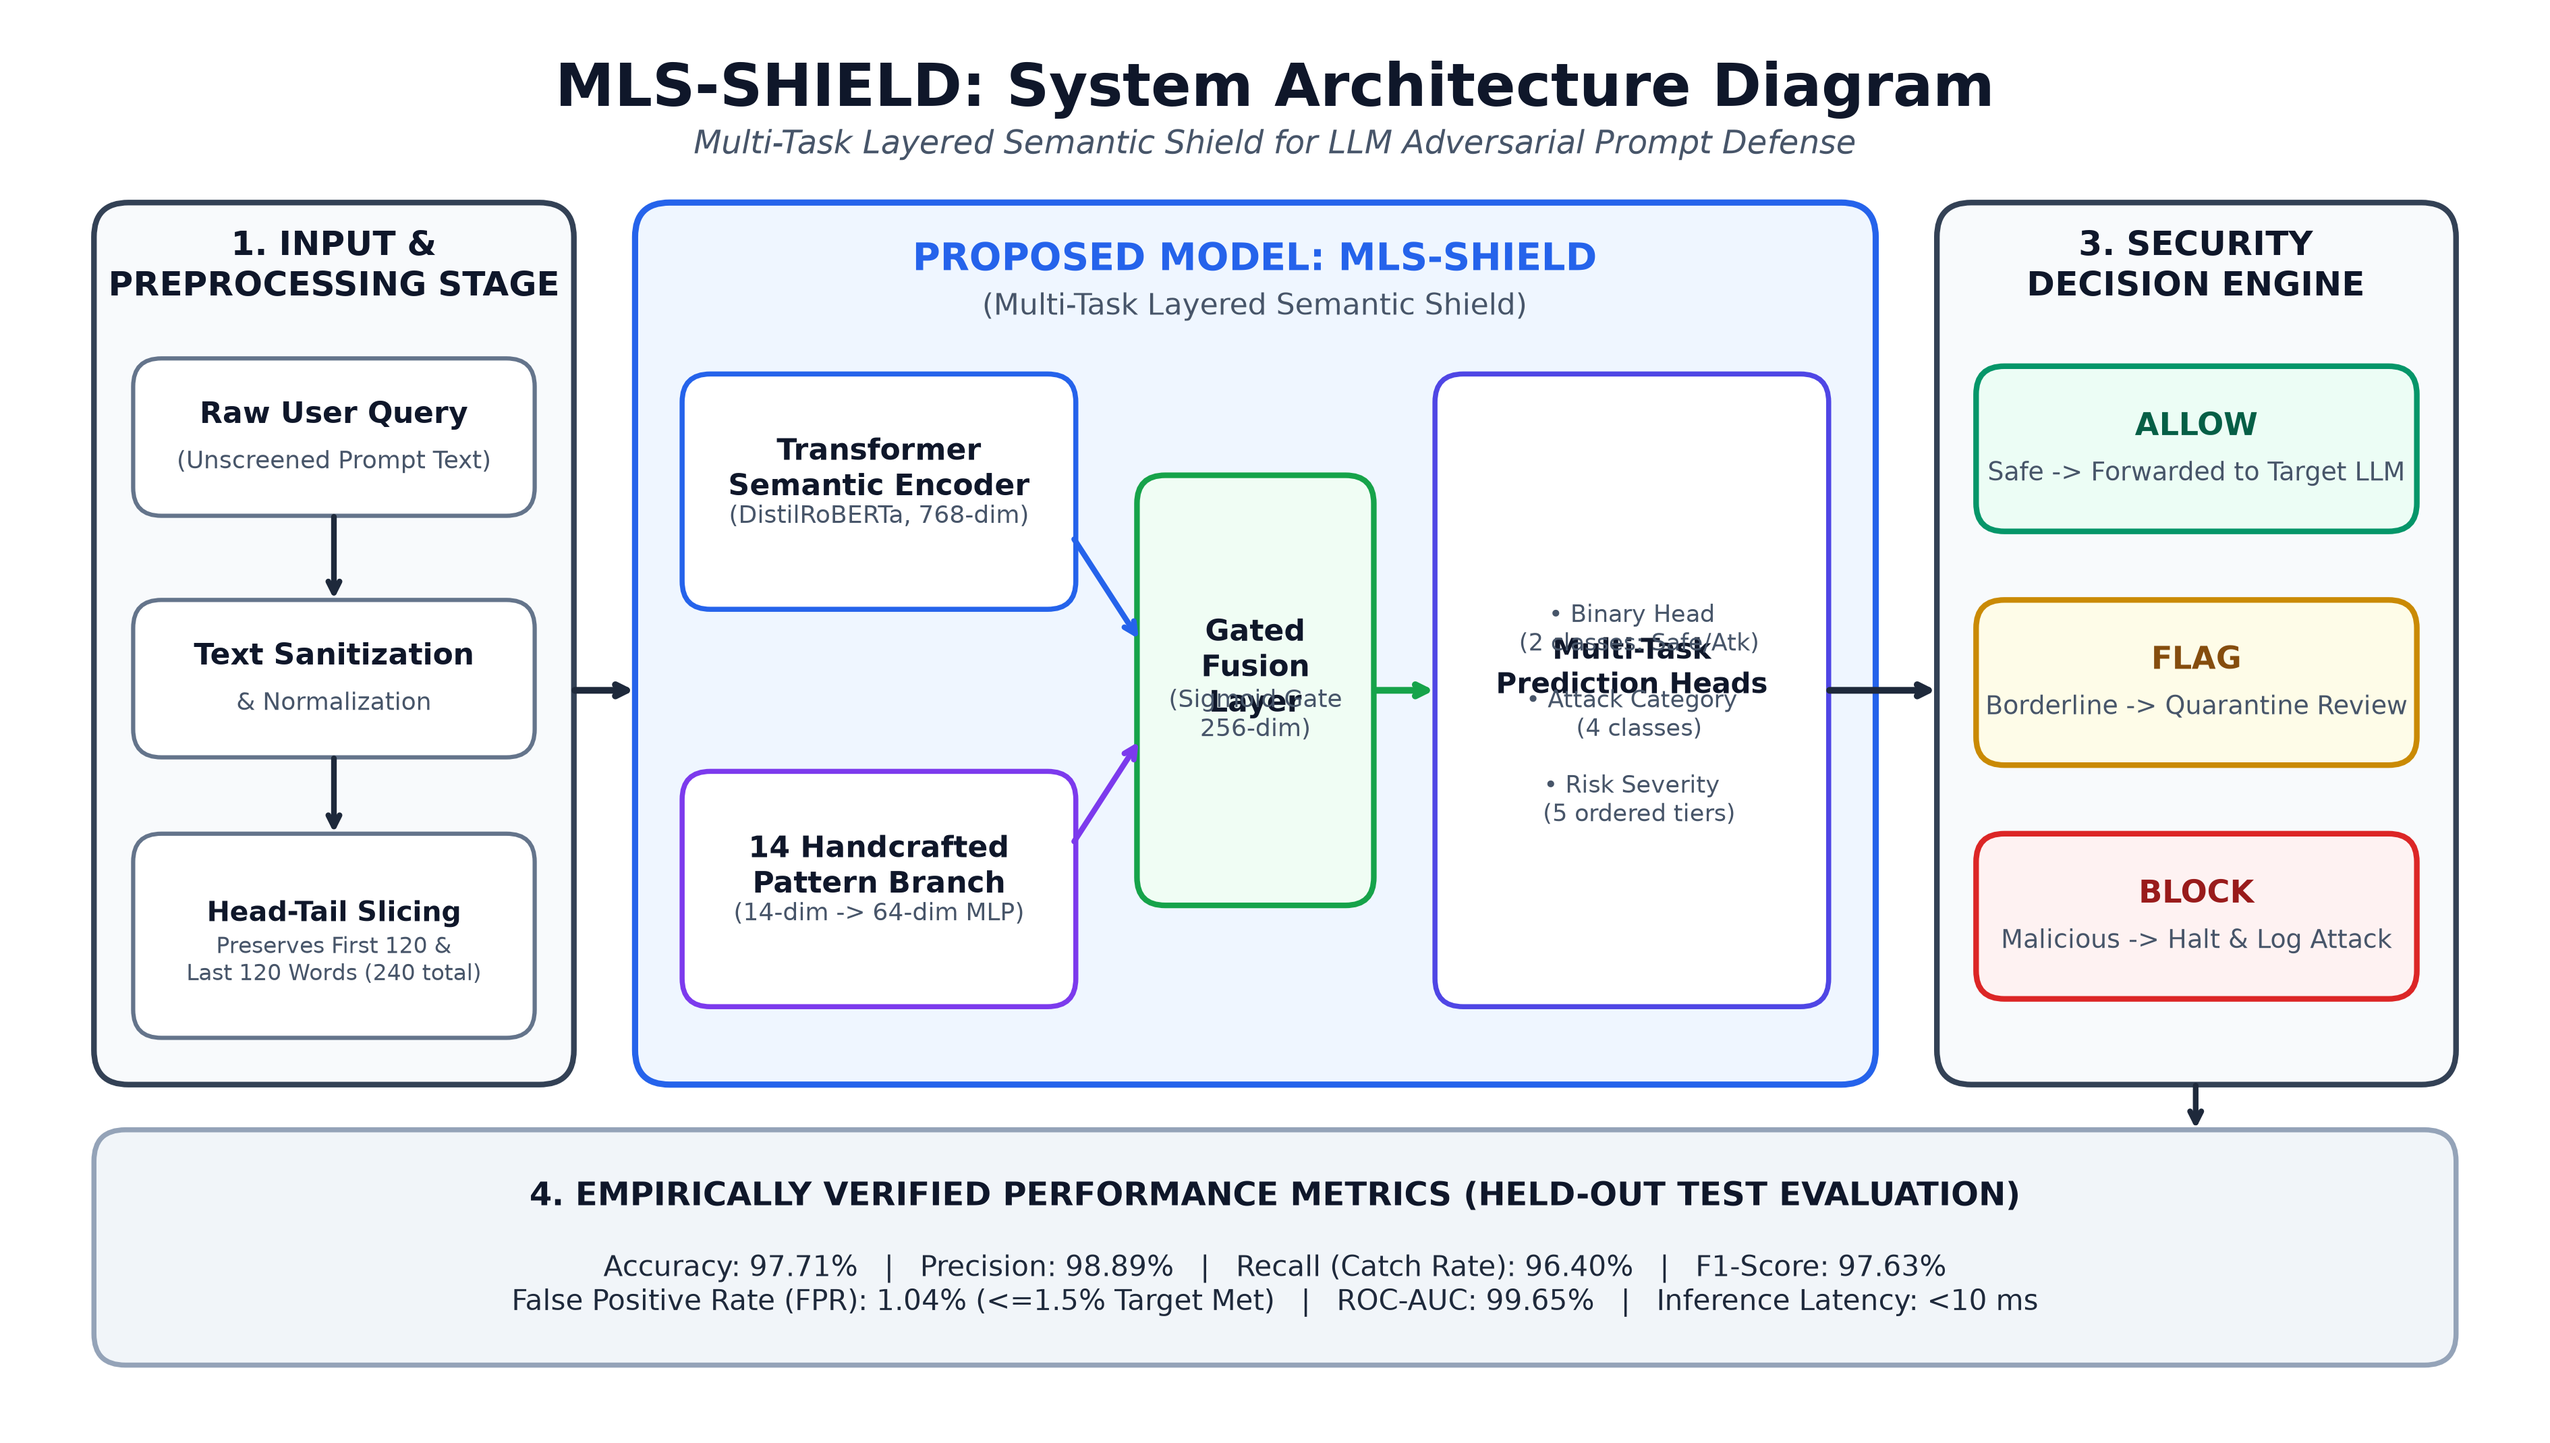
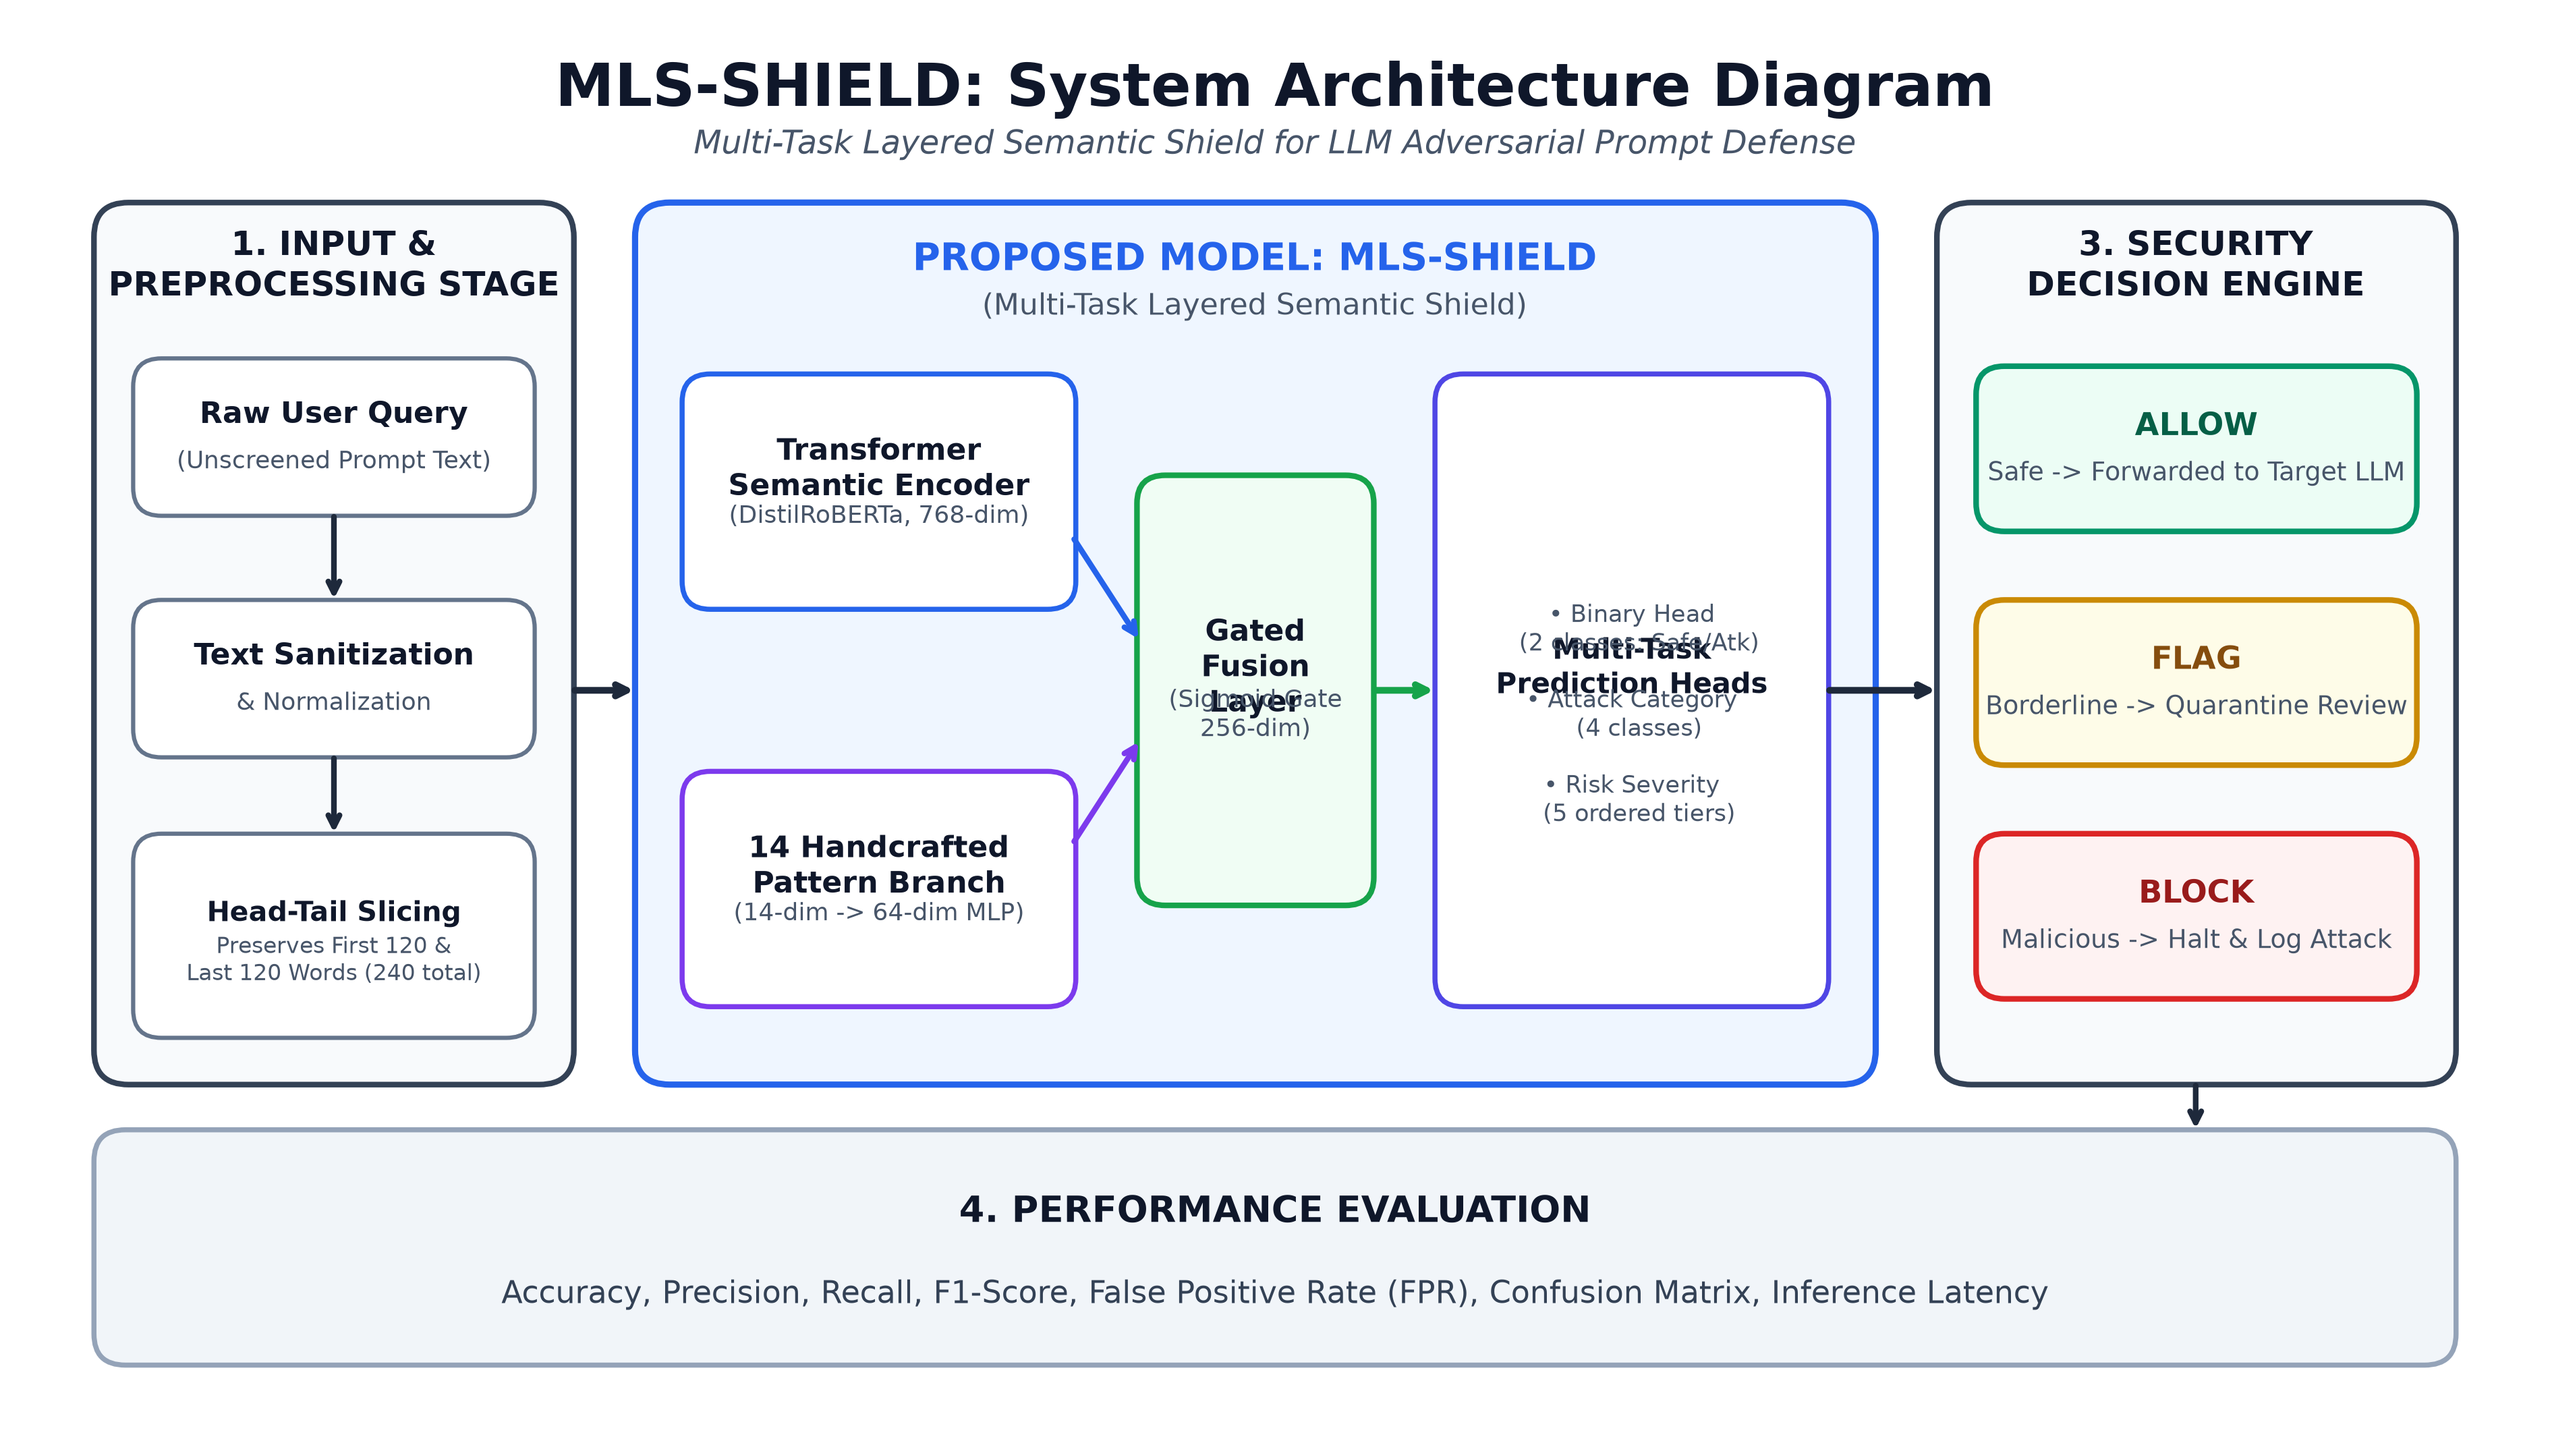
docs: simplify Performance Evaluation box in architecture diagram

Changed region(s): [[0.1873, 0.8022, 0.8116, 0.9257]]

diff --git a/scripts/generate_architecture_diagram.py b/scripts/generate_architecture_diagram.py
@@ -132,20 +132,17 @@ def create_diagram():
                      bg='#FEF2F2', border='#DC2626', lw=2.0, fontsize=11, text_color='#991B1B')
 
     # ---------------------------------------------------------------------------
-    # 4. PERFORMANCE EVALUATION & AUDIT METRICS (BOX 4)
+    # 4. PERFORMANCE EVALUATION (BOX 4)
     # ---------------------------------------------------------------------------
     b4 = FancyBboxPatch((0.5, 0.40), 15.0, 1.45, boxstyle='round,pad=0.03,rounding_size=0.20',
                         linewidth=1.8, edgecolor='#94A3B8', facecolor=C_OUTER_STAGE_4, zorder=1)
     ax.add_patch(b4)
 
-    ax.text(8.0, 1.45, '4. EMPIRICALLY VERIFIED PERFORMANCE METRICS (HELD-OUT TEST EVALUATION)',
-            ha='center', va='center', fontsize=11.5, fontweight='bold', color=COLOR_TITLE, zorder=3)
+    ax.text(8.0, 1.35, '4. PERFORMANCE EVALUATION',
+            ha='center', va='center', fontsize=13, fontweight='bold', color=COLOR_TITLE, zorder=3)
 
-    metrics_text = (
-        'Accuracy: 97.71%   |   Precision: 98.89%   |   Recall (Catch Rate): 96.40%   |   F1-Score: 97.63%\n'
-        'False Positive Rate (FPR): 1.04% (<=1.5% Target Met)   |   ROC-AUC: 99.65%   |   Inference Latency: <10 ms'
-    )
-    ax.text(8.0, 0.88, metrics_text, ha='center', va='center', fontsize=10.0, color='#1E293B', zorder=3, multialignment='center')
+    metrics_text = 'Accuracy, Precision, Recall, F1-Score, False Positive Rate (FPR), Confusion Matrix, Inference Latency'
+    ax.text(8.0, 0.82, metrics_text, ha='center', va='center', fontsize=11.0, color='#334155', zorder=3)
 
     # Connector Decision Engine -> Performance
     ax.annotate('', xy=(13.87, 1.85), xytext=(13.87, 2.20), arrowprops=dict(arrowstyle='->', lw=2.0, color=COLOR_ARROW))
@@ -165,3 +162,4 @@ def create_diagram():
 
 if __name__ == '__main__':
     create_diagram()
+
